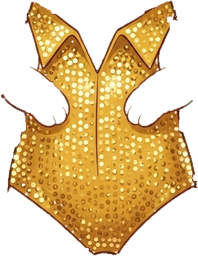
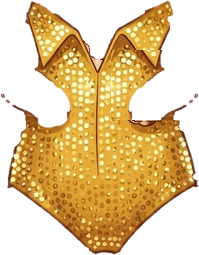
일괄 스케줄, 무대 의상·평소 옷·소품 다시 오리기(구멍·털·삐죽한 가장자리 정리)

diff --git a/index.html b/index.html
@@ -233,6 +233,8 @@ input[type=text]{width:100%;border:2px solid var(--gold);background:#fffdf6;bord
 .avbox.full img.a3{object-fit:contain;object-position:50% 100%}
 .avbox img.a3{background:transparent}
 .st3host .vig{z-index:1;position:absolute;left:3px;top:3px;right:3px;bottom:3px;border-radius:11px;pointer-events:none;-webkit-backdrop-filter:blur(1.3px) brightness(.9) saturate(.92);backdrop-filter:blur(1.3px) brightness(.9) saturate(.92);background:radial-gradient(ellipse 75% 70% at 50% 55%,transparent 55%,rgba(20,10,40,.38) 100%)}
+.allrow{background:#fff6fb;border-radius:12px;margin-bottom:4px}
+.allico{flex:none;width:48px;height:48px;border-radius:50%;display:grid;place-items:center;font-size:24px;background:#ffe3f0;border:2.5px solid #fff;box-shadow:0 0 0 2px var(--gold)}
 .doll{position:relative;display:block;height:100%;aspect-ratio:448/600;margin:0 auto}
 .doll img.a3{object-fit:fill}
 .doll .witem{position:absolute;display:block;pointer-events:none}
@@ -1274,7 +1276,7 @@ document.body.insertAdjacentHTML('afterbegin', puppetDefs());
 const blinkDelay = m => `animation-delay:${-((m.hue || 0) % 46) / 10}s`;
 // ===== 2D 고양이 아이돌 (그림 AI 그림 + 휘는 메시 애니메이션, cat2d.js) =====
 const CATS = [['cheese', '치즈'], ['tuxedo', '턱시도'], ['calico', '삼색'], ['black', '까망'], ['white', '하양'], ['tabby', '고등어'], ['siamese', '샴'], ['gray', '러블']];
-const CATV = '?v=14';
+const CATV = '?v=15';
 // 옷·소품 (art/cat/item-*.png, 좌표는 items.json). 무대에서는 콘셉트 의상, 평소엔 멤버별로 고른 옷
 const WEAR_CLOTH = [[null, '없음'], ['hoodie', '후드 조끼'], ['sport', '운동복'], ['dress', '프릴 원피스'], ['sailor', '세일러'], ['leather', '가죽 조끼'], ['cape', '별빛 망토'], ['polka', '물방울 원피스'], ['jersey', '힙합 저지'], ['ballad', '흰 드레스'], ['reddress', '빨간 드레스']];
 const WEAR_ACC = [[null, '없음'], ['ribbon', '리본'], ['crown', '왕관'], ['headset', '헤드셋 마이크'], ['beret', '베레모'], ['cap', '야구 모자'], ['sunglasses', '선글라스'], ['flower', '꽃 화관'], ['bowtie', '나비넥타이']];
@@ -1631,7 +1633,7 @@ function planHTML() {
   return `${managerBox()}
 <h2>그룹 일정</h2><div class="chips">${opts.map(o => `<button class="chip${S.ga === o.id ? ' on' : ''}" data-ga="${o.id}"${o.ok === false ? ' disabled' : ''}>${o.label}</button>`).join('')}</div>
 <p class="muted">${esc(cur.desc)}${opts.find(o => o.id === 'concert' && o.ok === false) ? ` · 콘서트: ${concertWhy()}` : ''}</p>
-<h2>멤버별 스케줄</h2><div class="card">${rows}</div>
+<h2>멤버별 스케줄</h2><div class="card"><div class="mrow allrow"><div class="who"><span class="allico">🐾</span><div class="info"><div class="name">일괄 스케줄</div><div class="muted">전원 한 번에 바꾸기</div></div></div><select id="schedAll"><option value="">골라 주세요</option>${Object.entries(SCHED).map(([k, s]) => `<option value="${k}">${s.label}${s.cost ? ` · ${money(s.cost)}` : ''}</option>`).join('')}</select></div>${rows}</div>
 <p class="muted">이번 주 예상 지출 ${money(total)} (스케줄 ${money(train)} · 숙소 ${money(dormOf().cost)} · 직원 ${money(staffCost())}${contractCost() ? ` · 업체 ${money(contractCost())}` : ''}${S.ga === 'concert' ? ' · 콘서트 5,000만' : ''})</p>
 <p class="muted">💡 피로가 70을 넘으면 훈련 효과가 반으로 줄고, 80을 넘으면 건강이 깎여요.</p>`;
 }
@@ -1919,6 +1921,7 @@ document.addEventListener('click', e => {
 document.addEventListener('change', e => {
   if (e.target.id === 'cbConcept') { $('#cbOutfit').innerHTML = outfitOptions(e.target.value); $('#cbPreview').innerHTML = outfitPreview($('#cbOutfit').value); return; }
   if (e.target.id === 'cbOutfit') { $('#cbPreview').innerHTML = outfitPreview(e.target.value); return; }
+  if (e.target.id === 'schedAll') { const v = e.target.value; if (v) { S.members.forEach(m => { if (!forcedLabel(m)) m.sched = v; }); save(); render(); } return; }
   const id = e.target.dataset.sched;
   if (id) { const m = S.members.find(x => x.id === id); if (m) { m.sched = e.target.value; save(); render(); } }
 });

diff --git a/cat-live.html b/cat-live.html
@@ -25,7 +25,7 @@ p{color:#8a6f7a;font-size:13px;line-height:1.5}
 <p>그림 AI로 그린 고양이를 몸통·팔·꼬리·표정으로 나누고, 그림을 <b>휘고 늘리는</b> 방식(Live2D·Spine과 같은 원리)으로 움직여요. 팔과 꼬리는 붙은 곳은 고정되고 끝으로 갈수록 휘어서 이음새가 없어요. 머리는 목 부분이 부드럽게 늘어나며 기울고, 숨 쉴 때 몸이 살짝 부풀어요.</p>
 </main>
 <script type="module">
-import { loadCat, makeCat, loadItems } from './cat2d.js?v=14';
+import { loadCat, makeCat, loadItems } from './cat2d.js?v=15';
 const MODES = { idle: '대기', dance: '춤', cheer: '만세(1위)', wave: '손 흔들기', sleep: '졸기', sad: '시무룩' };
 const cv = document.getElementById('st');
 const app = new PIXI.Application({ view: cv, backgroundAlpha: 0, antialias: true, width: cv.clientWidth, height: cv.clientHeight, resolution: Math.min(2, devicePixelRatio || 1), autoDensity: true });

diff --git a/cat2d.js b/cat2d.js
@@ -1,6 +1,6 @@
 // ===== 2D 고양이 아이돌 (그림을 휘고 늘리는 메시 애니메이션, PixiJS) =====
 // 부위 그림(몸통·팔·꼬리·표정)을 격자 모양 메시로 붙이고, 꼭짓점을 움직여서 이음새 없이 휘게 만듦.
-const ART = new URL('art/cat/', import.meta.url).href, VER = '?v=14';   // 고치면 숫자 올리기 (브라우저 저장본 대신 새 파일)
+const ART = new URL('art/cat/', import.meta.url).href, VER = '?v=15';   // 고치면 숫자 올리기 (브라우저 저장본 대신 새 파일)
 const sstep = (a, b, x) => { const t = Math.max(0, Math.min(1, (x - a) / (b - a))); return t * t * (3 - 2 * t); };
 const rot = (x, y, cx, cy, a) => { const c = Math.cos(a), s = Math.sin(a); return [cx + (x - cx) * c - (y - cy) * s, cy + (x - cx) * s + (y - cy) * c]; };
 

diff --git a/sw.js b/sw.js
@@ -1,5 +1,5 @@
 // 인터넷이 없어도 열리도록 앱 파일을 저장해 둠. 앱을 고치면 VERSION 숫자를 올릴 것.
-const VERSION = "v23";
+const VERSION = "v24";
 const FILES = ["./", "index.html", "manifest.webmanifest", "icon-180.png", "icon-192.png", "icon-512.png"];
 self.addEventListener("install", e => { e.waitUntil(caches.open(VERSION).then(c => c.addAll(FILES))); self.skipWaiting(); });
 self.addEventListener("activate", e => { e.waitUntil(caches.keys().then(ks => Promise.all(ks.filter(k => k !== VERSION).map(k => caches.delete(k))))); self.clients.claim(); });
